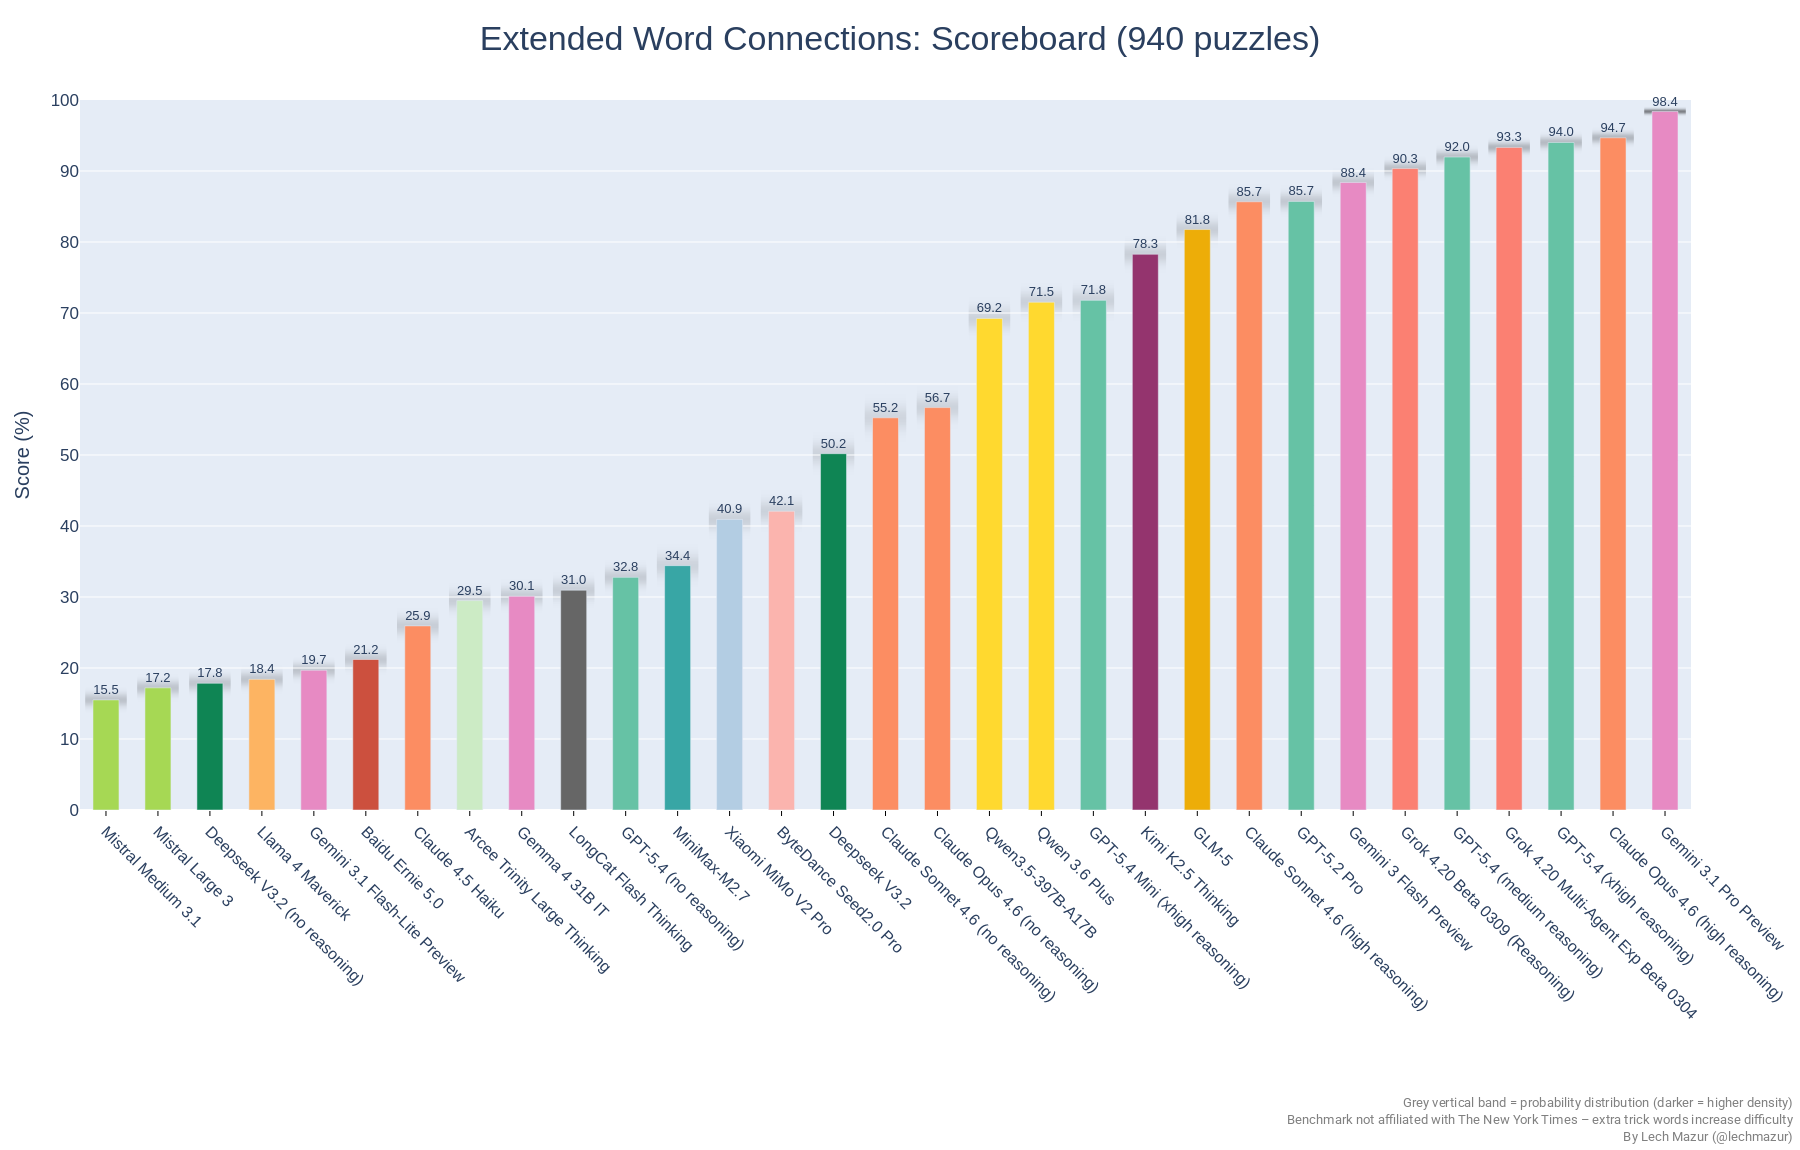
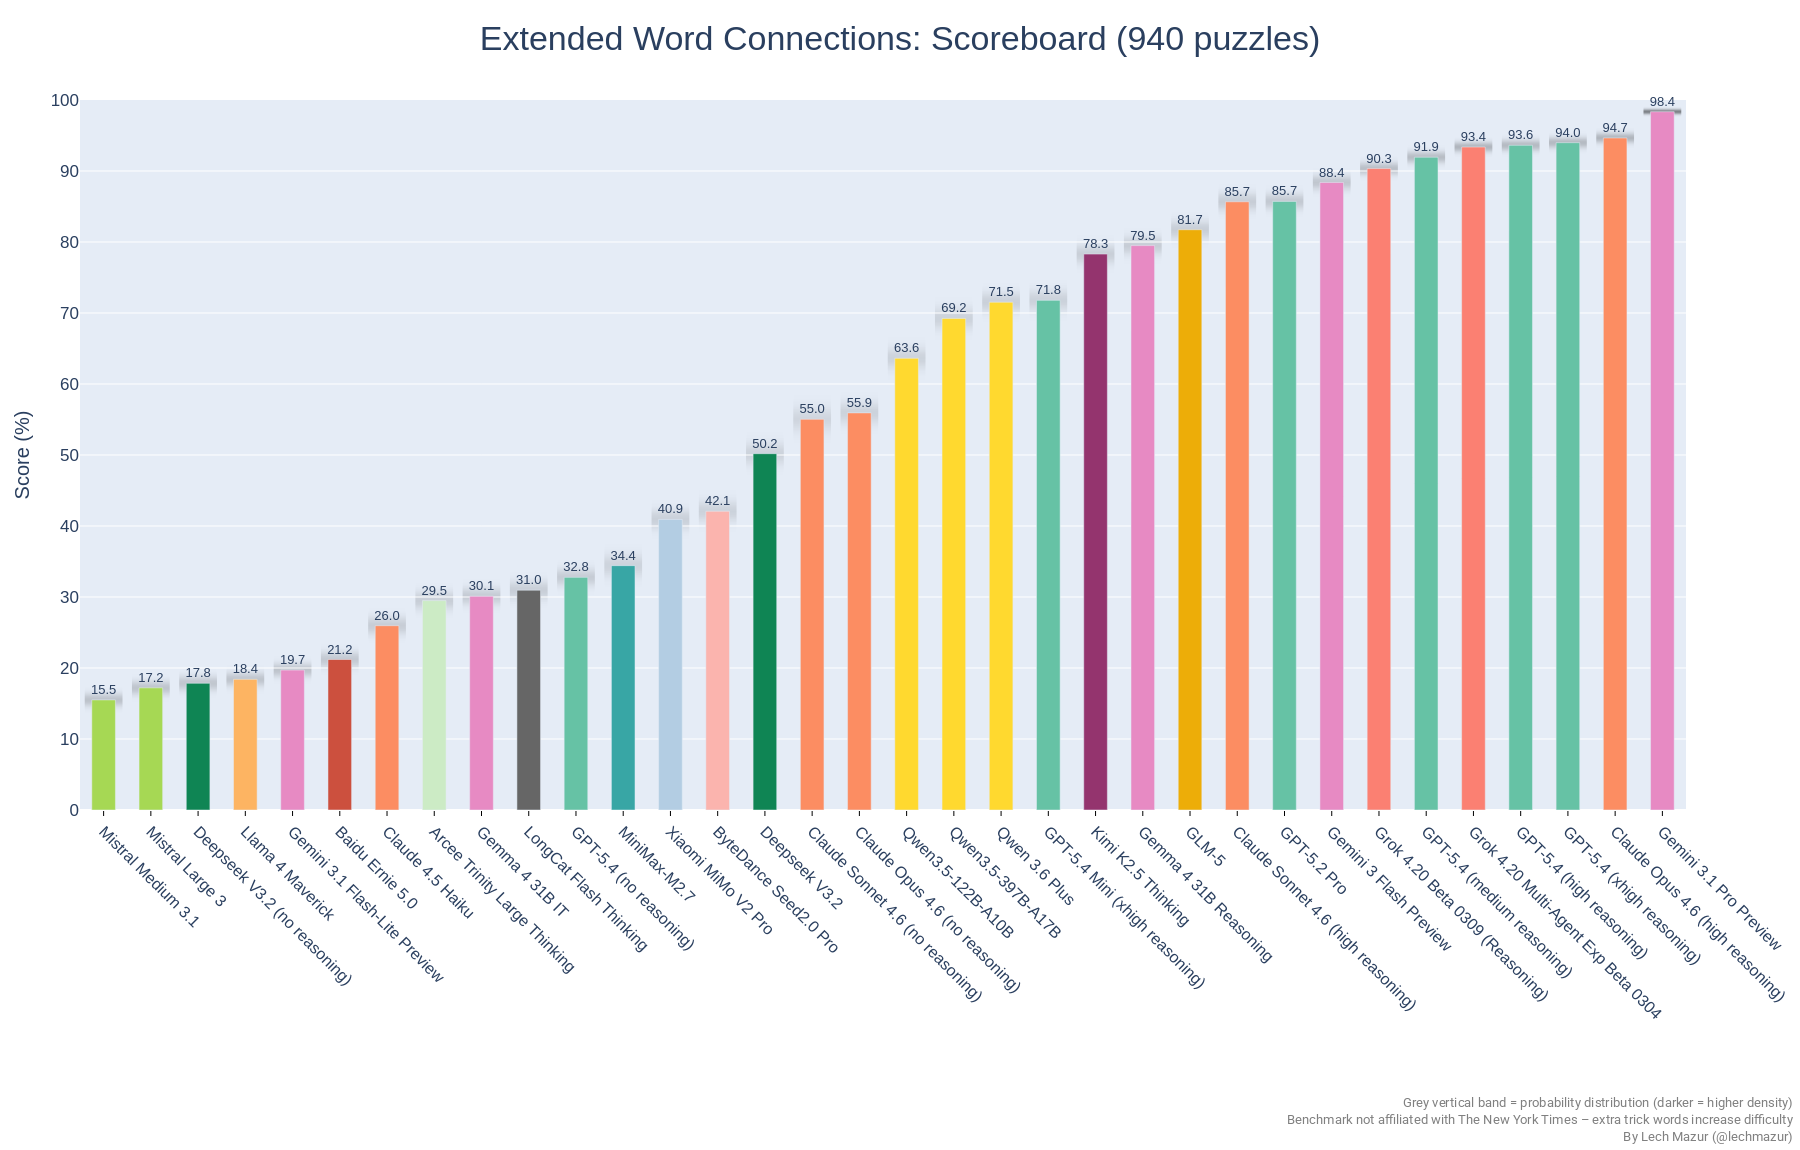
GPT 5.4 (high), Gemma 4 31B Reasoning, Qwen3.5-122B-A10B added.

Changed region(s): [[0.0622, 0.0913, 0.9956, 0.8826], [0.7778, 0.8522, 0.8089, 0.8826], [0.7467, 0.8217, 0.7778, 0.8522]]

diff --git a/README.md b/README.md
@@ -16,55 +16,59 @@ As of Feb 4, 2025, there is a new version of the benchmark. The standard NYT Con
 |2|Gemini 3 Pro Preview|96.3|940|
 |3|Claude Opus 4.6 (high reasoning)|94.7|940|
 |4|GPT-5.4 (xhigh reasoning)|94.0|940|
-|5|Grok 4.20 Multi-Agent Exp Beta 0304|93.3|940|
-|6|GPT-5.4 (medium reasoning)|92.0|940|
-|7|Grok 4.1 Fast Reasoning|91.7|940|
-|8|Grok 4.20 Beta 0309 (Reasoning)|90.3|940|
-|9|Grok 4.20 Reasoning Exp Beta 0304|89.5|940|
-|10|GPT-5.2 (xhigh reasoning)|88.6|940|
-|11|Gemini 3 Flash Preview|88.4|940|
-|12|GPT-5.2 Pro|85.7|940|
-|13|Claude Sonnet 4.6 (high reasoning)|85.7|940|
-|14|Claude Sonnet 4.6 Thinking 32K|82.4|940|
-|15|GLM-5|81.8|940|
-|16|Claude Opus 4.6 Thinking 16K|81.7|940|
-|17|Kimi K2.5 Thinking|78.3|940|
-|18|GPT-5.2 (high reasoning)|77.5|940|
-|19|GPT-5.4 Mini (xhigh reasoning)|71.8|940|
-|20|Qwen 3.6 Plus|71.5|940|
-|21|GPT-5.2 (medium reasoning)|71.4|940|
-|22|Qwen3.5-397B-A17B|69.2|940|
-|23|GPT-5.2 (low reasoning)|66.7|940|
-|24|Claude Opus 4.5 Thinking 16K|62.6|940|
-|25|Claude Opus 4.5 (no reasoning)|60.3|940|
-|26|Claude Sonnet 4.6 Thinking 16K|57.6|940|
-|27|Claude Opus 4.6 (no reasoning)|56.7|940|
-|28|Claude Sonnet 4.6 (no reasoning)|55.2|940|
-|29|Deepseek V3.2|50.2|940|
-|30|Claude Sonnet 4.5 Thinking 16K|49.3|940|
-|31|Claude Sonnet 4.5 (no reasoning)|47.4|940|
-|32|ByteDance Seed2.0 Pro|42.1|940|
-|33|Qwen3 Max (2026-01-23)|41.8|940|
-|34|Xiaomi MiMo V2 Pro|40.9|940|
-|35|MiniMax-M2.7|34.4|940|
-|36|GPT-5.4 (no reasoning)|32.8|940|
-|37|LongCat Flash Thinking|31.0|940|
-|38|Gemma 4 31B IT|30.1|940|
-|39|MiniMax-M2.5|29.6|940|
-|40|Arcee Trinity Large Thinking|29.5|940|
-|41|GPT-5.2 (no reasoning)|28.1|940|
-|42|MiniMax-M2|27.0|940|
-|43|Claude 4.5 Haiku|25.9|940|
-|44|Grok 4.1 Fast Non-Reasoning|25.0|940|
-|45|Qwen 3 Max Thinking|24.1|940|
-|46|MiniMax-M2.1|22.7|940|
-|47|Baidu Ernie 5.0|21.2|940|
-|48|Gemini 3.1 Flash-Lite Preview|19.7|940|
-|49|Llama 4 Maverick|18.4|940|
-|50|Deepseek V3.2 (no reasoning)|17.8|940|
-|51|Grok 4.20 Non-Reasoning Exp Beta 0304|17.6|940|
-|52|Mistral Large 3|17.2|940|
-|53|Mistral Medium 3.1|15.5|940|
+|5|GPT-5.4 (high reasoning)|93.6|940|
+|6|Grok 4.20 Multi-Agent Exp Beta 0304|93.4|940|
+|7|GPT-5.4 (medium reasoning)|91.9|940|
+|8|Grok 4.1 Fast Reasoning|91.7|940|
+|9|Grok 4.20 Beta 0309 (Reasoning)|90.3|940|
+|10|Grok 4.20 Reasoning Exp Beta 0304|89.5|940|
+|11|GPT-5.2 (xhigh reasoning)|88.6|940|
+|12|Gemini 3 Flash Preview|88.4|940|
+|13|GPT-5.2 Pro|85.7|940|
+|14|Claude Sonnet 4.6 (high reasoning)|85.7|940|
+|15|Claude Sonnet 4.6 Thinking 32K|82.4|940|
+|16|GLM-5|81.7|940|
+|17|Claude Opus 4.6 Thinking 16K|81.7|940|
+|18|Gemma 4 31B Reasoning|79.5|940|
+|19|Kimi K2.5 Thinking|78.3|940|
+|20|GPT-5.2 (high reasoning)|77.5|940|
+|21|GPT-5.4 Mini (xhigh reasoning)|71.8|940|
+|22|Qwen 3.6 Plus|71.5|940|
+|23|GPT-5.2 (medium reasoning)|71.4|940|
+|24|Qwen3.5-397B-A17B|69.2|940|
+|25|GPT-5.2 (low reasoning)|66.7|940|
+|26|Qwen3.5-122B-A10B|63.6|940|
+|27|Claude Opus 4.5 Thinking 16K|62.6|940|
+|28|Claude Opus 4.5 (no reasoning)|60.3|940|
+|29|Claude Sonnet 4.6 Thinking 16K|57.6|940|
+|30|Claude Opus 4.6 (no reasoning)|55.9|940|
+|31|Claude Sonnet 4.6 (no reasoning)|55.0|940|
+|32|Deepseek V3.2|50.2|940|
+|33|Claude Sonnet 4.5 Thinking 16K|49.4|940|
+|34|Claude Sonnet 4.5 (no reasoning)|47.4|940|
+|35|Qwen3 Max (2026-01-23)|42.1|940|
+|36|ByteDance Seed2.0 Pro|42.1|940|
+|37|Xiaomi MiMo V2 Pro|40.9|940|
+|38|Step 3.5 Flash|39.9|940|
+|39|MiniMax-M2.7|34.4|940|
+|40|GPT-5.4 (no reasoning)|32.8|940|
+|41|LongCat Flash Thinking|31.0|940|
+|42|Gemma 4 31B IT|30.1|940|
+|43|MiniMax-M2.5|29.6|940|
+|44|Arcee Trinity Large Thinking|29.5|940|
+|45|GPT-5.2 (no reasoning)|28.1|940|
+|46|MiniMax-M2|27.0|940|
+|47|Claude 4.5 Haiku|26.0|940|
+|48|Grok 4.1 Fast Non-Reasoning|25.1|940|
+|49|Qwen 3 Max Thinking|24.1|940|
+|50|MiniMax-M2.1|22.7|940|
+|51|Baidu Ernie 5.0|21.2|940|
+|52|Gemini 3.1 Flash-Lite Preview|19.7|940|
+|53|Llama 4 Maverick|18.4|940|
+|54|Deepseek V3.2 (no reasoning)|17.8|940|
+|55|Grok 4.20 Non-Reasoning Exp Beta 0304|17.6|940|
+|56|Mistral Large 3|17.2|940|
+|57|Mistral Medium 3.1|15.5|940|
 
 
 
@@ -288,6 +292,7 @@ These models are excluded from the main board because they ran fewer than 940 to
 ---
 
 ## Updates
+- April 6, 2026: GPT 5.4 (high), Gemma 4 31B Reasoning, Qwen3.5-122B-A10B added.
 - April 4, 2026: MiniMax-M2.7 added.
 - April 3, 2026: Arcee Trinity Large Thinking, Qwen 3.6 Plus, Gemma 4 31B added.
 - Mar 6, 2026: Grok 4.20 Beta Experminatal, Gemini 3.1 Flash-Lite Preview added.
